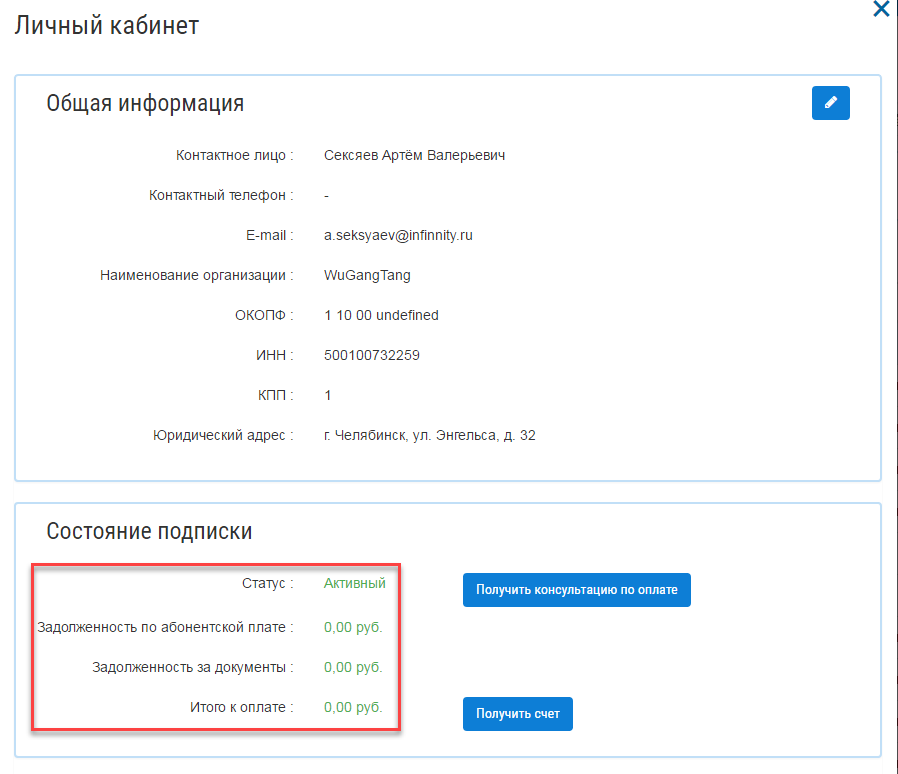
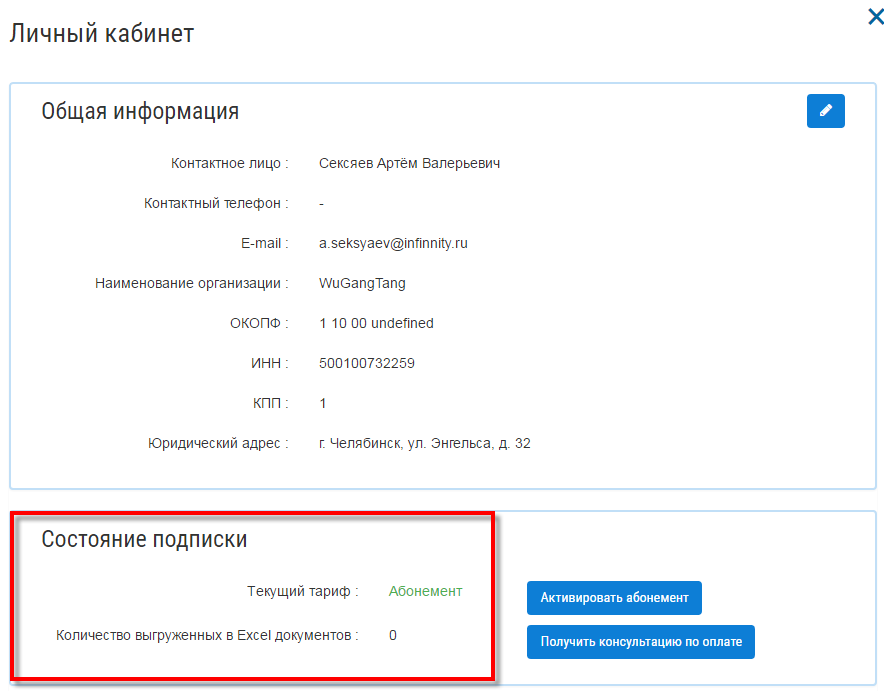
Обновление раздела 1. Обновление подраздела 1.5. Актуализированы формулировки и картинки.

diff --git a/docs/source/01-beginning-of-work/1.5.rst b/docs/source/01-beginning-of-work/1.5.rst
@@ -16,18 +16,18 @@
   
 **В разделе «Состояние подписки» есть возможность:**
 
- 1. Посмотреть общую информацию о состоянии подписки (статус, информация о задолженности).
+ 1. Посмотреть общую информацию о состоянии подписки (текущий тариф, количество выгруженных в Excel документов).
  
 	.. image:: ../_images/01-beginning-of-work/54.png
  
- 2. Получить консультацию по оплате, нажав кнопку «Получить консультацию по оплате» (наш сотрудник свяжется с пользователем в течение одного рабочего дня).
+ 2. Получить счёт для активации абонемента, нажав кнопку «Активировать абонемент».
+  
+  .. image:: ../_images/01-beginning-of-work/62.png 
+ 
+ 3. Получить консультацию по оплате, нажав кнопку «Получить консультацию по оплате» (наш сотрудник свяжется с пользователем в течение одного рабочего дня).
  
 	.. image:: ../_images/01-beginning-of-work/61.png
  
- 3. Получить счёт для активации подписки, нажав кнопку «Получить счёт».
-  
-  .. image:: ../_images/01-beginning-of-work/62.png
-  
   **Для редактирования общей информации об организации в личном кабинете необходимо:**
   
  1. Нажать кнопку «Редактирование».
